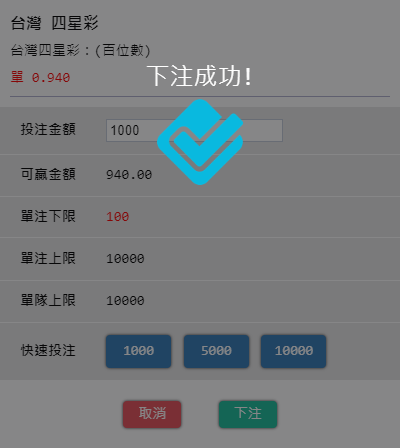
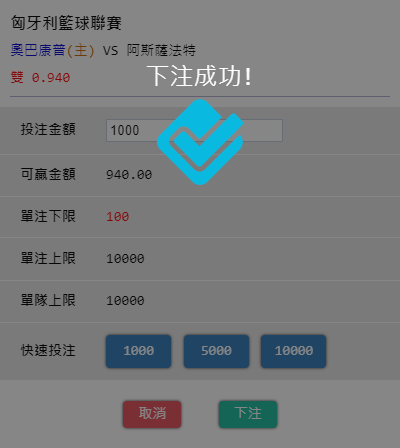
Initial commit

Changed region(s): [[0.03, 0.0312, 0.48, 0.125], [0.03, 0.1562, 0.06, 0.1875]]

diff --git a/main(以下注過的不下).py b/main(以下注過的不下).py
@@ -1,0 +1,176 @@
+import time
+import win32clipboard as clip
+import win32con
+import win32com
+import win32com.client
+from io import BytesIO
+from PIL import ImageGrab,Image
+import requests
+from selenium import webdriver
+from selenium.webdriver.common.by import By
+import random
+from selenium.webdriver.support.ui import WebDriverWait
+from selenium.webdriver.support import expected_conditions as EC
+from selenium.common.exceptions import TimeoutException
+#大漠初始化
+dm = win32com.client.Dispatch('dm.dmsoft')
+print(dm.ver())
+website = "https://www.bl568.net/new_home2.php"
+LoginUrl = "https://www.bl568.net/op/new_home2_op.php?pdisplay=login"
+Account = "ra62158"
+Password = "a888"
+LoginData = {'userid': Account,
+         'passwd':Password,
+         'lang':'TW'}
+sportWebsite = 'https://www.bl568.net/index.php?show_game=sport'
+login_session = requests.Session()
+體育賽事 = []
+
+if __name__ == '__main__':
+    '''拿到登入時的Cookie'''
+    login_session.post(LoginUrl,data=LoginData)
+    login_session_cookie = login_session.cookies
+    cookies_dictionary = login_session_cookie.get_dict() #登入時的COOKIE
+    #print(cookies_dictionary)
+    '''開始進入運彩網'''
+    driver = webdriver.Chrome() #打開Chrome
+    driver.get(website)
+    driver.implicitly_wait(6)  # 等待加載完成 最多6秒
+    driver.add_cookie({
+        'name': 'PHPSESSID',
+        'value': cookies_dictionary['PHPSESSID']
+    }) # 加入登入時的Cookie
+    driver.get(sportWebsite)
+    driver.implicitly_wait(6)# 等待加載完成 最多6秒
+    test1 = driver.find_elements(By.XPATH,'//*[@id="left-menu"]/ul/li[@class=""]')#li下 不等於hide的元素
+    print(test1)
+    '//*[@id="gc-1"]'
+    for i,good in enumerate(test1):
+        體育賽事.append([good.text.splitlines()[0],good.get_attribute("id"),good.text.splitlines()[1]])#賽事名稱-編號-
+        print(體育賽事)
+    print(體育賽事)
+    隨機選擇體育賽事 = 體育賽事[random.randint(0, len(體育賽事) - 1)]
+    賽事名稱 = 隨機選擇體育賽事[0]
+    print(賽事名稱)
+    賽事編號 = 隨機選擇體育賽事[1]
+    driver.find_element(By.XPATH, '//*[@id="{0}"]/div'.format(賽事編號)).click()  # 隨機點選賽事
+
+    #''下注類型''
+    #''//*[@id="top-bar"]/div[2]/div[@class="sub-btn " and not(contains(text(),"過關"))]/font[text() != "(0)"]''
+    #選擇sunbtn 和 不包含過關的字 and <font>的text 不為0
+    要下注什麼場 = driver.find_elements(By.XPATH, '//*[@id="top-bar"]/div[2]/div[contains(@class,"sub") and not(contains(text(),"過關"))]/font[text() != "(0)"]')
+    要下注什麼場總共按鈕 = len(要下注什麼場)
+    隨機下注場次按鈕遍號 = random.randint(0, 要下注什麼場總共按鈕-1)
+    要下注什麼場[隨機下注場次按鈕遍號].click()
+    #driver.find_element(By.XPATH, '//*[@id="top-bar"]/div[2]/div[{0}]'.format(隨機下注場次按鈕遍號)).click()
+    '''點擊下注按鈕'''
+    #odds
+    '//*[@id="events-div"]/table/tbody/tr[3]/td[3]/div[3]/div[1]/a'
+    '//*[@id="events-div"]/table/tbody/tr[3]/td[5]/div/div[2]/a'
+    time.sleep(1)  # 休息3秒
+    下注按鈕總數 = driver.find_elements(By.CLASS_NAME,'odds')
+    print("總共有{0}個按鈕可以下注".format(len(下注按鈕總數)))
+    try:
+        隨機數 = random.randint(0, len(下注按鈕總數)-1)
+    except ValueError as e:
+        print("目前無賽事可以下")
+        #重新選擇賽事
+        driver.get(website)
+    下注按鈕總數[隨機數].click() ##隨機點擊一個下注
+
+
+    以下注過的信息 = []
+    以下注過的信息.append(['其他冰球 - 全場 大小投注', 'AHL 美國冰球聯盟-不包括加時賽與點球賽', '6+85 小 0.880', '拉瓦勒火箭 VS 斯普林菲爾德雷鳥(主)'])
+
+    while True:
+        下注場次名稱 = driver.find_element(By.XPATH, '//*[@id="betting-div"]/div[2]/div/div[1]').text
+        print(下注場次名稱)
+        以下注過的信息_標題 = driver.find_element(By.XPATH, '//*[@id="betting-div"]/div[1]').text
+        print(以下注過的信息_標題)
+        以下注過的信息_下注隊伍 = driver.find_element(By.XPATH, '//*[@id="betting-div"]/div[2]/div/div[3]').text
+        print(以下注過的信息_下注隊伍)
+        以下注過的信息_隊伍信息 = driver.find_element(By.XPATH, '//*[@id="betting-div"]/div[2]/div/div[2]').get_attribute('innerText')
+        for i in range(0, len(以下注過的信息)):
+             if 以下注過的信息_標題 == 以下注過的信息[i][0]:
+                 if 下注場次名稱 == 以下注過的信息[i][1]:
+                     if 以下注過的信息_隊伍信息 == 以下注過的信息[i][3]:
+                        print("已經下過了 即將結束")
+                        driver.get(sportWebsite)
+                        driver.implicitly_wait(6)  # 等待加載完成 最多6秒
+                        test1 = driver.find_elements(By.XPATH, '//*[@id="left-menu"]/ul/li[@class=""]')  # li下 不等於hide的元素
+                        print(test1)
+                        '//*[@id="gc-1"]'
+                        for i, good in enumerate(test1):
+                            體育賽事.append([good.text.splitlines()[0], good.get_attribute("id"),
+                                         good.text.splitlines()[1]])  # 賽事名稱-編號-
+                            print(體育賽事)
+                        print(體育賽事)
+                        隨機選擇體育賽事 = 體育賽事[random.randint(0, len(體育賽事) - 1)]
+                        賽事名稱 = 隨機選擇體育賽事[0]
+                        print(賽事名稱)
+                        賽事編號 = 隨機選擇體育賽事[1]
+                        driver.find_element(By.XPATH, '//*[@id="{0}"]/div'.format(賽事編號)).click()  # 隨機點選賽事
+
+                        # ''下注類型''
+                        # ''//*[@id="top-bar"]/div[2]/div[@class="sub-btn " and not(contains(text(),"過關"))]/font[text() != "(0)"]''
+                        # 選擇sunbtn 和 不包含過關的字 and <font>的text 不為0
+                        要下注什麼場 = driver.find_elements(By.XPATH,
+                                                      '//*[@id="top-bar"]/div[2]/div[contains(@class,"sub") and not(contains(text(),"過關"))]/font[text() != "(0)"]')
+                        要下注什麼場總共按鈕 = len(要下注什麼場)
+                        隨機下注場次按鈕遍號 = random.randint(1, 要下注什麼場總共按鈕)
+                        要下注什麼場[隨機下注場次按鈕遍號 - 1].click()
+                        # driver.find_element(By.XPATH, '//*[@id="top-bar"]/div[2]/div[{0}]'.format(隨機下注場次按鈕遍號)).click()
+                        '''點擊下注按鈕'''
+                        # odds
+                        '//*[@id="events-div"]/table/tbody/tr[3]/td[3]/div[3]/div[1]/a'
+                        '//*[@id="events-div"]/table/tbody/tr[3]/td[5]/div/div[2]/a'
+                        time.sleep(1)  # 休息3秒
+                        下注按鈕總數 = driver.find_elements(By.CLASS_NAME, 'odds')
+                        print("總共有{0}個按鈕可以下注".format(len(下注按鈕總數)))
+                        try:
+                            隨機數 = random.randint(0, len(下注按鈕總數) - 1)
+                        except ValueError as e:
+                            print("目前無賽事可以下")
+                            # 重新選擇賽事
+                            driver.get(website)
+                        下注按鈕總數[隨機數].click()  ##隨機點擊一個下注
+        else:
+            print("成功跳出 沒有重複隊伍")
+            下注場次名稱 = driver.find_element(By.XPATH, '//*[@id="betting-div"]/div[2]/div/div[1]').text
+            print(下注場次名稱)
+            以下注過的信息_標題 = driver.find_element(By.XPATH, '//*[@id="betting-div"]/div[1]').text
+            print(以下注過的信息_標題)
+            以下注過的信息_下注隊伍 = driver.find_element(By.XPATH, '//*[@id="betting-div"]/div[2]/div/div[3]').text
+            print(以下注過的信息_下注隊伍)
+            以下注過的信息_隊伍信息 = driver.find_element(By.XPATH, '//*[@id="betting-div"]/div[2]/div/div[2]').get_attribute(
+                'innerText')
+            break
+    以下注過的信息.append([以下注過的信息_標題, 下注場次名稱, 以下注過的信息_下注隊伍,以下注過的信息_隊伍信息])
+    print(以下注過的信息)
+    time.sleep(1)
+    driver.find_element(By.XPATH, '//*[@id="betting-form"]/table/tbody/tr[6]/td[2]/a[1]').click()  #點擊投注1000塊的按鈕
+
+    '//*[@id="betting-confirm"]'#Xpath定位下注的按鈕
+    driver.find_element(By.XPATH,'//*[@id="betting-confirm"]').click()#點擊下注\
+    #截圖下注成功
+    #Xpath下注成功 '//*[@id="result-message"]'
+    # class ="content"
+    try:
+        element = WebDriverWait(driver, 20).until(
+            EC.text_to_be_present_in_element((By.XPATH, '//*[@id="result-message"]'), "下注成功!")
+        )
+    except TimeoutException as e:
+        print("下注失敗 即將關閉")
+        driver.quit()
+    finally:
+        print('下注成功')
+        driver.find_element(By.CLASS_NAME, 'content').screenshot(r'abdc.png')
+
+
+
+
+    time.sleep(1)
+
+    time.sleep(500)
+
+# See PyCharm help at https://www.jetbrains.com/help/pycharm/
